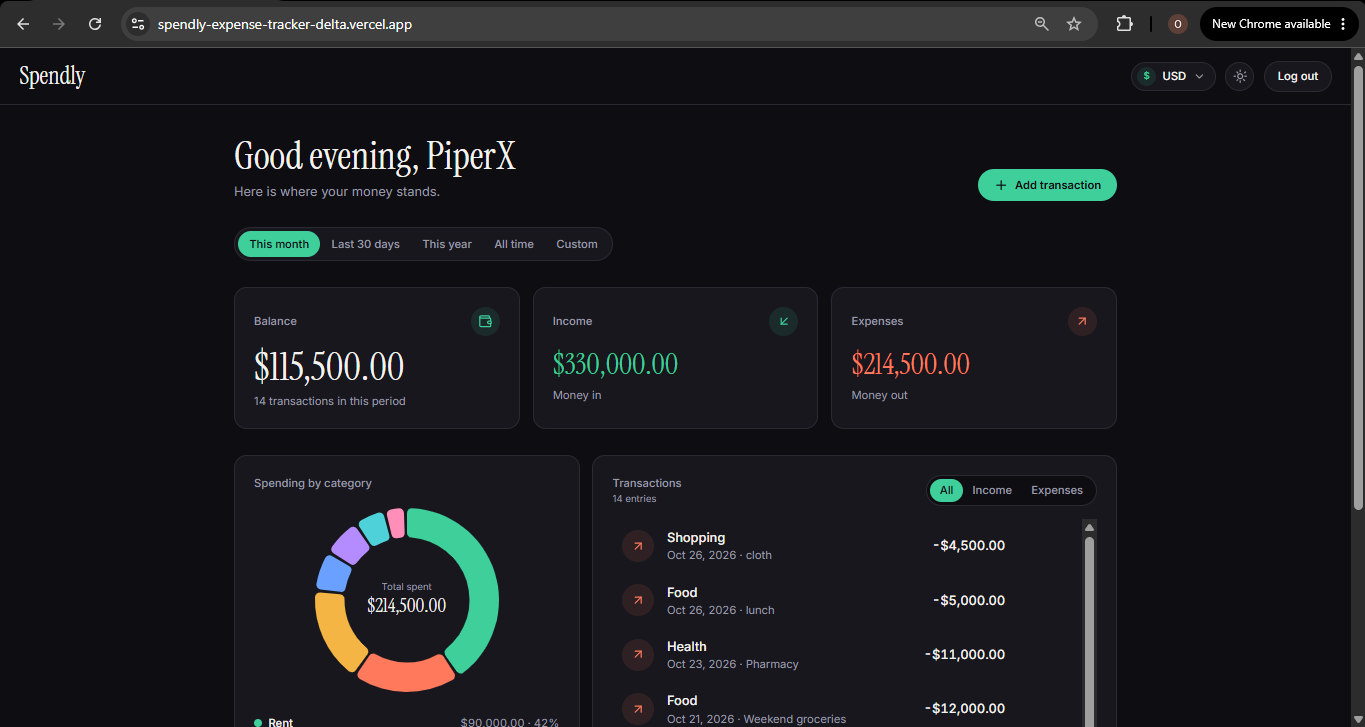
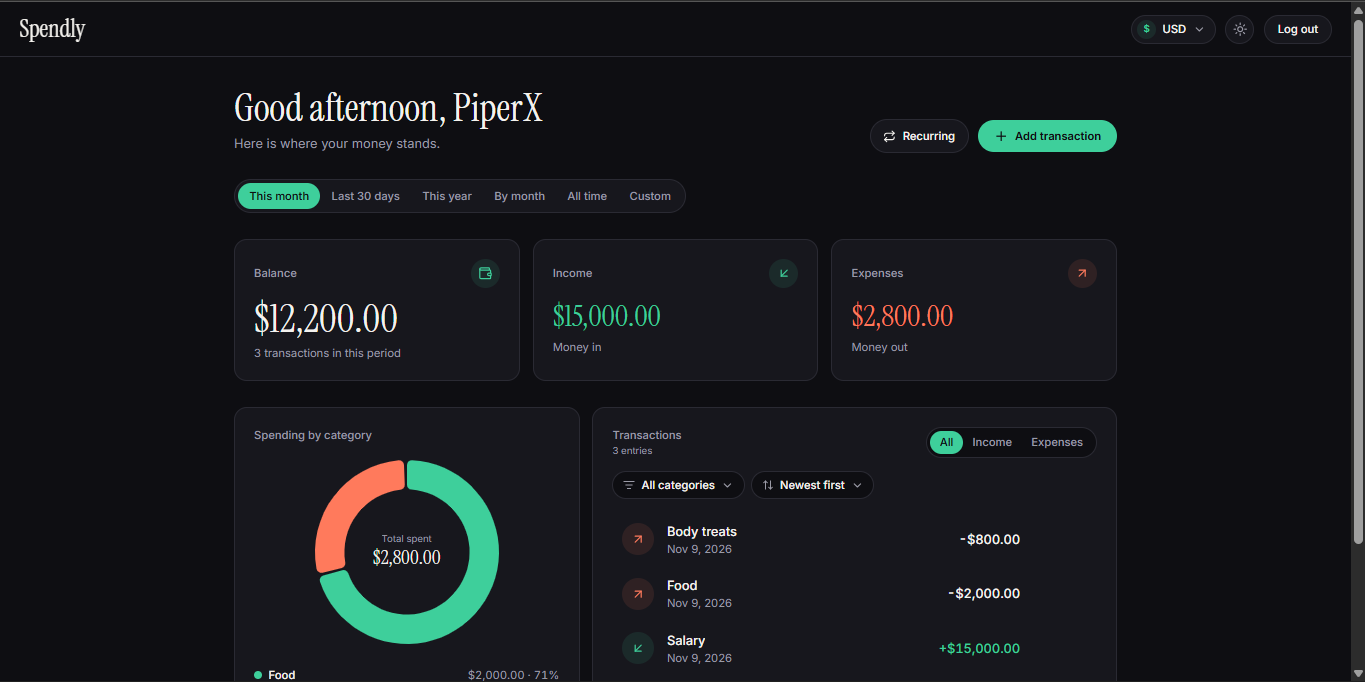
feat: warm up the API on load and explain slow cold starts

diff --git a/client/src/pages/Register.tsx b/client/src/pages/Register.tsx
@@ -5,7 +5,9 @@ import { AnimatePresence, motion } from "motion/react";
 import AuthLayout from "../components/AuthLayout";
 import DemoButton from "../components/DemoButton";
 import Field from "../components/Field";
+import WakingNotice from "../components/WakingNotice";
 import { useAuth } from "../context/authContext";
+import { useSlowFlag } from "../hooks/useSlowFlag";
 
 export default function Register() {
   const { user, register } = useAuth();
@@ -14,6 +16,7 @@ export default function Register() {
   const [password, setPassword] = useState("");
   const [error, setError] = useState("");
   const [submitting, setSubmitting] = useState(false);
+  const slow = useSlowFlag(submitting);
 
   if (user) {
     return <Navigate to="/" replace />;
@@ -93,6 +96,8 @@ export default function Register() {
         >
           {submitting ? "Creating account..." : "Create account"}
         </motion.button>
+
+        {slow && <WakingNotice />}
       </form>
 
       <DemoButton />

diff --git a/client/src/pages/Login.tsx b/client/src/pages/Login.tsx
@@ -5,7 +5,9 @@ import { AnimatePresence, motion } from "motion/react";
 import AuthLayout from "../components/AuthLayout";
 import DemoButton from "../components/DemoButton";
 import Field from "../components/Field";
+import WakingNotice from "../components/WakingNotice";
 import { useAuth } from "../context/authContext";
+import { useSlowFlag } from "../hooks/useSlowFlag";
 
 export default function Login() {
   const { user, login } = useAuth();
@@ -13,6 +15,7 @@ export default function Login() {
   const [password, setPassword] = useState("");
   const [error, setError] = useState("");
   const [submitting, setSubmitting] = useState(false);
+  const slow = useSlowFlag(submitting);
 
   if (user) {
     return <Navigate to="/" replace />;
@@ -76,6 +79,8 @@ export default function Login() {
         >
           {submitting ? "Logging in..." : "Log in"}
         </motion.button>
+
+        {slow && <WakingNotice />}
       </form>
 
       <DemoButton />

diff --git a/client/src/components/ProtectedRoute.tsx b/client/src/components/ProtectedRoute.tsx
@@ -1,13 +1,18 @@
 import { Navigate, Outlet } from "react-router-dom";
+import WakingNotice from "./WakingNotice";
 import { useAuth } from "../context/authContext";
+import { useSlowFlag } from "../hooks/useSlowFlag";
 
 export default function ProtectedRoute() {
   const { user, loading } = useAuth();
+  const slow = useSlowFlag(loading);
 
   if (loading) {
     return (
-      <div className="flex min-h-screen items-center justify-center bg-background text-muted">
-        Loading...
+      <div className="flex min-h-screen flex-col items-center justify-center gap-4 bg-background px-6 text-muted">
+        <div className="h-7 w-7 animate-spin rounded-full border-2 border-border border-t-accent" />
+        <p>Loading...</p>
+        {slow && <WakingNotice />}
       </div>
     );
   }

diff --git a/client/src/App.tsx b/client/src/App.tsx
@@ -1,6 +1,8 @@
+import { useEffect } from "react";
 import { Navigate, Route, Routes } from "react-router-dom";
 import ProtectedRoute from "./components/ProtectedRoute";
 import ScrollToTop from "./components/ScrollToTop";
+import { warmUpServer } from "./lib/api";
 import Account from "./pages/Account";
 import Dashboard from "./pages/Dashboard";
 import Login from "./pages/Login";
@@ -9,6 +11,10 @@ import Recurring from "./pages/Recurring";
 import Register from "./pages/Register";
 
 export default function App() {
+  useEffect(() => {
+    warmUpServer();
+  }, []);
+
   return (
     <>
       <ScrollToTop />

diff --git a/client/src/hooks/useSlowFlag.ts b/client/src/hooks/useSlowFlag.ts
@@ -1,0 +1,18 @@
+import { useEffect, useState } from "react";
+
+export function useSlowFlag(active: boolean, delayMs = 4000): boolean {
+  const [slow, setSlow] = useState(false);
+
+  useEffect(() => {
+    if (!active) return;
+
+    const timer = window.setTimeout(() => setSlow(true), delayMs);
+
+    return () => {
+      window.clearTimeout(timer);
+      setSlow(false);
+    };
+  }, [active, delayMs]);
+
+  return slow;
+}

diff --git a/client/src/components/WakingNotice.tsx b/client/src/components/WakingNotice.tsx
@@ -1,0 +1,15 @@
+import { motion } from "motion/react";
+
+export default function WakingNotice() {
+  return (
+    <motion.p
+      initial={{ opacity: 0, y: 4 }}
+      animate={{ opacity: 1, y: 0 }}
+      transition={{ duration: 0.3 }}
+      role="status"
+      className="text-center text-sm text-muted"
+    >
+      Waking up the free server. This can take up to a minute, thanks for waiting.
+    </motion.p>
+  );
+}

diff --git a/client/src/lib/api.ts b/client/src/lib/api.ts
@@ -64,3 +64,11 @@ export async function api<T>(path: string, options: RequestOptions = {}): Promis
 
   return data as T;
 }
+
+export function warmUpServer(): void {
+  if (!API_URL) return;
+
+  fetch(`${API_URL}/health`, { mode: "no-cors", cache: "no-store" }).catch(() => {
+    // the warm-up is best effort, so a failure here is ignored
+  });
+}
